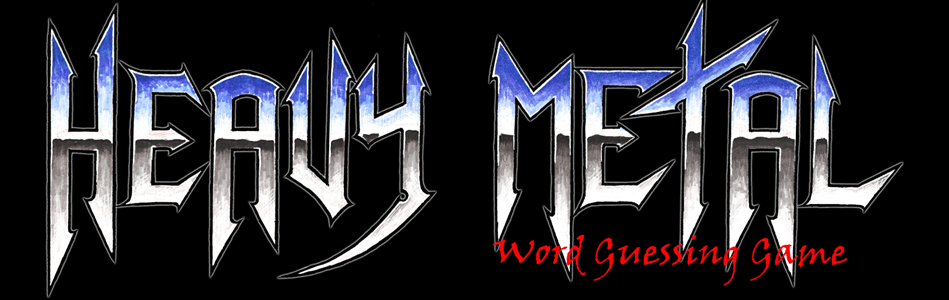
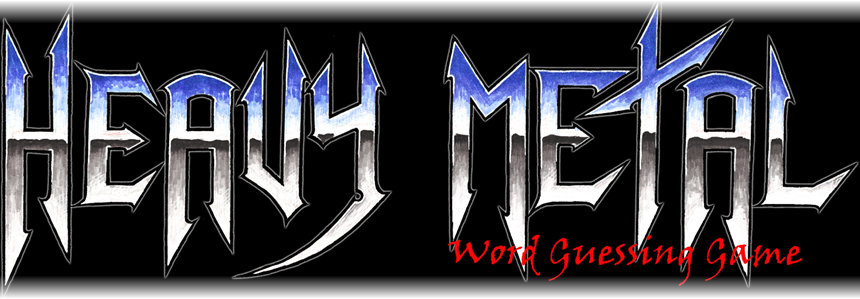
style corrections

diff --git a/assets/css/style.css b/assets/css/style.css
@@ -1,5 +1,8 @@
 body {
     background: black;
+    background: url("../images/firebg.jpg");
+    background-repeat: no-repeat;
+    background-position: center;
     height: 100%;
     line-height: 50px;
 }
@@ -24,7 +27,7 @@ body {
     font-size: 35px;
     color: white;
     text-align: center;
-    margin-bottom: 5px;
+    margin-bottom: 2px;
     text-shadow: 0 0 5px red, 0 0 7px orange;
 }
 
@@ -43,11 +46,21 @@ body {
     text-shadow: 0 0 5px red, 0 0 7px orange;
 }
 
+#wins {
+    color: yellow;
+    text-shadow: 0 0 5px red, 0 0 7px orange;
+}
+
 .loss {
     position: absolute;
     color: white;
     font-size: 30px;
     bottom: 1%;
+    text-shadow: 0 0 5px red, 0 0 7px orange;
+}
+
+#lost {
+    color: yellow;
     text-shadow: 0 0 5px red, 0 0 7px orange;
 }
 
@@ -71,7 +84,7 @@ body {
 
 #attempts {
     position: absolute;
-    color: white;
+    color: yellow;
     font-size: 30px;
     bottom: 8%;
     right: 5%;
@@ -80,7 +93,7 @@ body {
 
 .alpha {
     position: absolute;
-    color: white;
+    color: yellow;
     font-size: 30px;
     bottom: 1%;
     right: 5%;
@@ -94,6 +107,9 @@ body {
     .guesses,
     #attempts,
     .alpha {
+        font-size: 25px;
+    }
+    .to-do {
         font-size: 25px;
     }
     .logo {
@@ -111,7 +127,7 @@ body {
 
 @media only screen and (min-width: 768px) {
     .logo {
-        width: 600px;
+        width: 500px;
         height: auto;
     }
     .logo img {
@@ -128,6 +144,17 @@ body {
 }
 
 @media only screen and (min-width: 948px) {
+    .win,
+    .loss,
+    .guess_at,
+    .guesses,
+    #attempts,
+    .alpha {
+        font-size: 30px;
+    }
+    .to-do {
+        font-size: 35px;
+    }
     .logo {
         width: 940px;
         height: auto;

diff --git a/index.html b/index.html
@@ -22,13 +22,13 @@
                 <div class="d-flex justify-content-center">
                     <div class="big4"><img src="assets/images/big4.jpg" alt="big4.jpg"></div>
                 </div>
-                <div class="to-do">Please Guess The Band Below</div>
+                <div class="to-do">Please Guess The Band Name Below</div>
 
                 <div class="the_word"><span id="word">_ _ _ _ _ _</span></div>
 
                 <div class="win">Games Won: <span id="wins">0</span></div>
 
-                <div class="loss">Games Lost: <span id="lost">0</span></div>
+                <div class="loss">Games Lost:&nbsp; <span id="lost">0</span></div>
 
                 <div class="guess_at">Guesses Left: </div>
                 <div><span id="attempts"></span></div>
